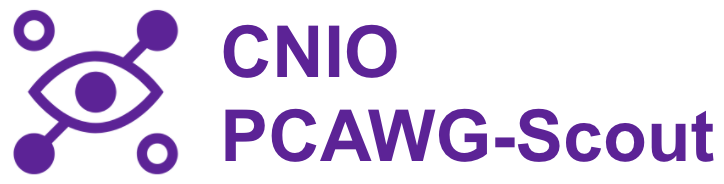
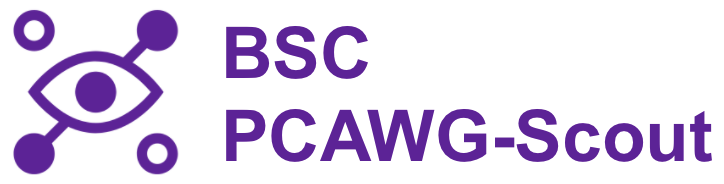
update links in pcawg landing page

diff --git a/docs/pcawg/index.md b/docs/pcawg/index.md
@@ -50,7 +50,7 @@ full_width: true
     <div style="flex:5;">
     </div>
     <div style="flex:60;">
-        <a href="https://www.ebi.ac.uk/gxa/experiments/E-MTAB-5200/Results?specific=true&geneQuery=%255B%257B%2522value%2522%253A%2522TMPRSS2%2522%252C%2522category%2522%253A%2522symbol%2522%257D%252C%257B%2522value%2522%253A%2522ENSG00000157554%2522%257D%252C%257B%2522value%2522%253A%2522SLC45A3%2522%252C%2522category%2522%253A%2522symbol%2522%257D%255D&filterFactors=%257B%2522ORGANISM_PART%2522%253A%255B%2522prostate%2520gland%2522%255D%257D&cutoff=0.5"><i class="fa-no-icon"></i><img src="images/expression_atlas_1.png" width="700"/></a>
+        <a href="https://www.ebi.ac.uk/gxa/experiments/E-MTAB-5200/Results?specific=true&geneQuery=[{%22value%22:%22TMPRSS2%22,%22category%22:%22symbol%22},{%22value%22:%22ENSG00000157554%22},{%22value%22:%22SLC45A3%22,%22category%22:%22symbol%22}]&filterFactors={%22ORGANISM_PART%22:[%22prostate%20gland%22]}&cutoff={%22value%22:0.5}&unit=%22TPM%22"><i class="fa-no-icon"></i><img src="images/expression_atlas_1.png" width="700"/></a>
     </div>
 </div>
 
@@ -60,12 +60,12 @@ full_width: true
 
 <div style="display:flex;flex-direction: row;justify-content: center;align-items: top;">
     <div style="flex:60;">
-        <a href="http://pcawgscout.bioinfo.cnio.es/entity_list_action/Sample/characteristic_alterations/Prost-AdenoCa%20ERG%20non-fusion%20donors"><i class="fa-no-icon"></i><img src="images/pcawg_scout_1.png" width="700"/></a>
+        <a href="http://pcawgscout.bsc.es/entity_list_action/Sample/characteristic_alterations/Prost-AdenoCa%20ERG%20non-fusion%20donors"><i class="fa-no-icon"></i><img src="images/pcawg_scout_1.png" width="700"/></a>
     </div>
     <div style="flex:5;">
     </div>
     <div style="flex:35;">
-        <a href="http://pcawgscout.bioinfo.cnio.es"><i class="fa-no-icon"></i><img src="images/cnio_pcawg_scout.png" height="70"/></a><br><br>
-        PCAWG-Scout is an analysis platform to visualize and explore the PCAWG data. It consists of a portal that presents the original omics data and sample annotation along with the results from different analysis working-groups, and which servers as interface to an on-demand analysis infrastructure to help the user find interesting stories and follow them across different analysis and visualization tools. Explore PCAWG data in CNIO PCAWG-Scout at <a href="http://pcawgscout.bioinfo.cnio.es">http://pcawgscout.bioinfo.cnio.es</a>.
+        <a href="http://pcawgscout.bsc.es"><i class="fa-no-icon"></i><img src="images/cnio_pcawg_scout.png" height="70"/></a><br><br>
+        PCAWG-Scout is an analysis platform to visualize and explore the PCAWG data. It consists of a portal that presents the original omics data and sample annotation along with the results from different analysis working-groups, and which servers as interface to an on-demand analysis infrastructure to help the user find interesting stories and follow them across different analysis and visualization tools. Explore PCAWG data in BSC PCAWG-Scout at <a href="http://pcawgscout.bsc.es">http://pcawgscout.bsc.es</a>.
     </div>
 </div>
